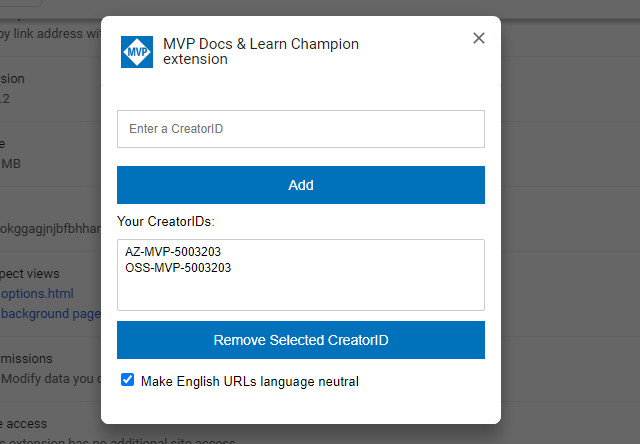
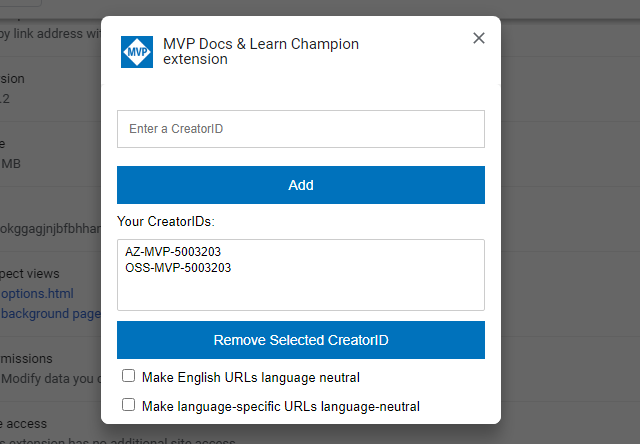
Readme update for "Make language-specific URLs language-neutral"
Update readme and screenshot to include the added "Make language-specific URLs language-neutral" option

Changed region(s): [[0.1875, 0.8198, 0.5625, 0.8784], [0.1875, 0.9077, 0.6562, 0.9369]]

diff --git a/README.md b/README.md
@@ -13,6 +13,7 @@ It provides the option to make English URL "language neutral" by removing "en-us
 ## Options
 
 After you have installed the extension, please specify your CreatorIDs within the extension options. 
-You can also check "Make English URLs language neutral" to make your links more friendly to a global audience.
+You can also check "Make English URLs language-neutral" or "Make language-specific URLs language-neutral" to make your links more friendly to a global audience. These language-neutral URLs will allow the destination website to match the user's language preference. 
+The first option will only transform English URLs (that contain "en-us") while the second will transforms URLs of any language.   
 
 ![Extension Options](./assets/screenshot_options.png)
